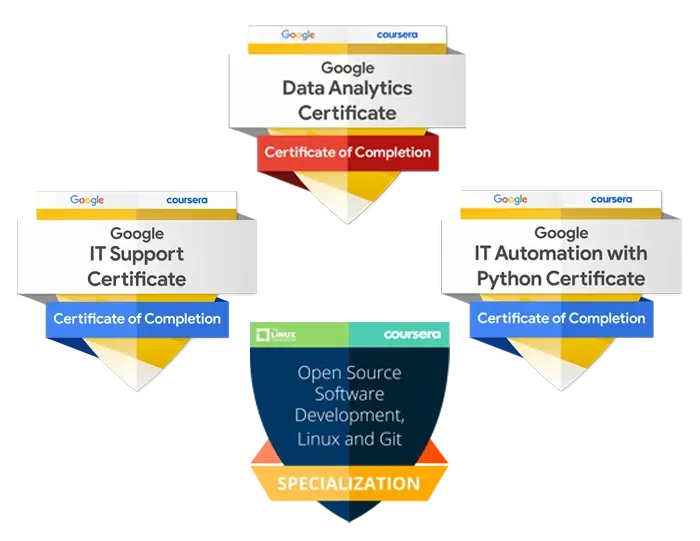
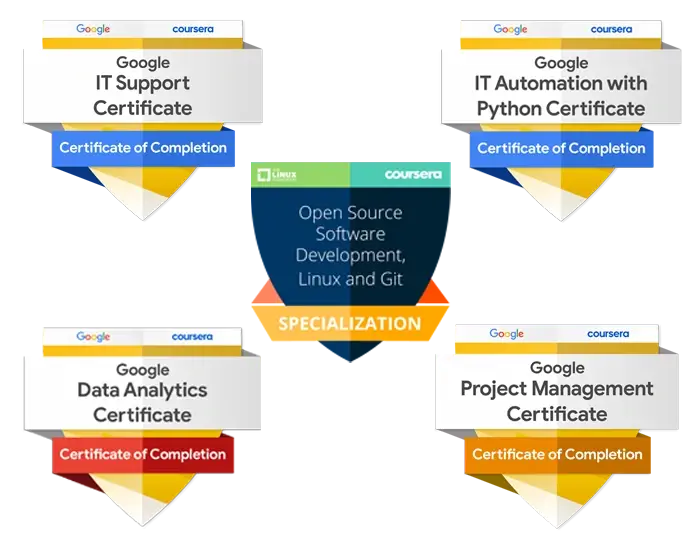
Update: certs, py-tess-ocr, badge

diff --git a/index.html b/index.html
@@ -271,7 +271,11 @@
                             </P>
                             <P>Coursera - The Linux Foundation | <span class="text-danger">2022</span></P>
                             <hr>
-                            <P class="sub-title">Google Data Analytics Professional Certificate - Specialization
+                            <P class="sub-title">Google Data Analytics - Specialization
+                            </P>
+                            <P>Coursera - Google | <span class="text-danger">2023</span></P>
+                            <hr>
+                            <P class="sub-title">Google Project Management - Specialization
                             </P>
                             <P>Coursera - Google | <span class="text-danger">2023</span></P>
                             <hr>
@@ -303,10 +307,10 @@
                             </P>
                             <P>KodeKloud | <span class="text-danger">2023</span></P>
                             <hr>
-                            <P class="sub-title">Neural Networks and Deep Learning
+                            <!-- <P class="sub-title">Neural Networks and Deep Learning
                             </P>
                             <P>Coursera - DeepLearning.AI | <span class="text-danger">2020</span></P>
-                            <hr>
+                            <hr> -->
                             <!-- <P class="sub-title">Introduction to Power Electronics
                             </P>
                             <P>Coursera - University of Colorado Boulder | <span class="text-danger">2020</span></P>
@@ -322,82 +326,87 @@
 
                                 <!-- Full-width images with numbers -->
                                 <div class="mySlides">
-                                    <div class="slide-numbertext">1 / 16</div>
+                                    <div class="slide-numbertext">1 / 17</div>
                                     <img src="assets/imgs/cert/badges.webp" style="width:75%"
                                         onclick="openImgCert(this)" alt="badges">
                                 </div>
                                 <div class="mySlides">
-                                    <div class="slide-numbertext">2 / 16</div>
+                                    <div class="slide-numbertext">2 / 17</div>
                                     <img src="assets/imgs/cert/GoogleITSupport.webp" style="width:75%;"
                                         onclick="openImgCert(this)" alt="Google IT Support">
                                 </div>
                                 <div class="mySlides">
-                                    <div class="slide-numbertext">3 / 16</div>
+                                    <div class="slide-numbertext">3 / 17</div>
                                     <img src="assets/imgs/cert/GoogleITAuto.webp" style="width:75%"
                                         onclick="openImgCert(this)" alt="Google IT Automation">
                                 </div>
                                 <div class="mySlides">
-                                    <div class="slide-numbertext">4 / 16</div>
+                                    <div class="slide-numbertext">4 / 17</div>
                                     <img src="assets/imgs/cert/Python3Programming.webp" style="width:75%"
                                         onclick="openImgCert(this)" alt="Python3 Programming">
                                 </div>
                                 <div class="mySlides">
-                                    <div class="slide-numbertext">5 / 16</div>
+                                    <div class="slide-numbertext">5 / 17</div>
                                     <img src="assets/imgs/cert/PythonForEverybody.webp" style="width:75%"
                                         onclick="openImgCert(this)" alt="Python for Everybody">
                                 </div>
                                 <div class="mySlides">
-                                    <div class="slide-numbertext">6 / 16</div>
+                                    <div class="slide-numbertext">6 / 17</div>
                                     <img src="assets/imgs/cert/Linux.webp" style="width:75%" onclick="openImgCert(this)"
                                         alt="Linux">
                                 </div>
                                 <div class="mySlides">
-                                    <div class="slide-numbertext">7 / 16</div>
+                                    <div class="slide-numbertext">7 / 17</div>
                                     <img src="assets/imgs/cert/GoogleDataAnalytics.webp" style="width:75%"
                                         onclick="openImgCert(this)" alt="Google Data Analytics">
                                 </div>
                                 <div class="mySlides">
-                                    <div class="slide-numbertext">8 / 16</div>
+                                    <div class="slide-numbertext">8 / 17</div>
+                                    <img src="assets/imgs/cert/GoogleProjectManagement.webp" style="width:75%"
+                                        onclick="openImgCert(this)" alt="Google Project Management">
+                                </div>
+                                <div class="mySlides">
+                                    <div class="slide-numbertext">9 / 17</div>
                                     <img id="image" src="assets/imgs/cert/ResponsiveWebDesign.webp" style="width:62%;"
                                         onclick="openImgCert(this)" alt="Responsive Web Design">
                                 </div>
                                 <div class="mySlides">
-                                    <div class="slide-numbertext">9 / 16</div>
+                                    <div class="slide-numbertext">10 / 17</div>
                                     <img id="image" src="assets/imgs/cert/JavascriptAlgorithms.webp" style="width:62%;"
                                         onclick="openImgCert(this)" alt="JavaScript Algorithms">
                                 </div>
                                 <div class="mySlides">
-                                    <div class="slide-numbertext">10 / 16</div>
+                                    <div class="slide-numbertext">11 / 17</div>
                                     <img id="image" src="assets/imgs/cert/FrontEndDevelopment.webp" style="width:62%;"
                                         onclick="openImgCert(this)" alt="Frontend Development">
                                 </div>
                                 <div class="mySlides">
-                                    <div class="slide-numbertext">11 / 16</div>
+                                    <div class="slide-numbertext">12 / 17</div>
                                     <img id="image" src="assets/imgs/cert/BackEndDevelopmentandAPIs.webp"
                                         style="width:75%;" onclick="openImgCert(this)" alt="Backend Development">
                                 </div>
                                 <div class="mySlides">
-                                    <div class="slide-numbertext">12 / 16</div>
+                                    <div class="slide-numbertext">13 / 17</div>
                                     <img id="image" src="assets/imgs/cert/GoLang.webp" style="width:80%;"
                                         onclick="openImgCert(this)" alt="Golang">
                                 </div>
                                 <div class="mySlides">
-                                    <div class="slide-numbertext">13 / 16</div>
+                                    <div class="slide-numbertext">14 / 17</div>
                                     <img id="image" src="assets/imgs/cert/Jenkins.webp" style="width:80%;"
                                         onclick="openImgCert(this)" alt="Jenkins">
                                 </div>
                                 <div class="mySlides">
-                                    <div class="slide-numbertext">14 / 16</div>
+                                    <div class="slide-numbertext">15 / 17</div>
                                     <img id="image" src="assets/imgs/cert/Ansible.webp" style="width:80%;"
                                         onclick="openImgCert(this)" alt="Ansible">
                                 </div>
                                 <div class="mySlides">
-                                    <div class="slide-numbertext">15 / 16</div>
+                                    <div class="slide-numbertext">16 / 17</div>
                                     <img id="image" src="assets/imgs/cert/NeuralNetworks.webp" style="width:75%;"
                                         onclick="openImgCert(this)" alt="Neural Networks">
                                 </div>
                                 <div class="mySlides">
-                                    <div class="slide-numbertext">16 / 16</div>
+                                    <div class="slide-numbertext">17 / 17</div>
                                     <img id="image" src="assets/imgs/cert/IntroductionToPower.webp" style="width:75%;"
                                         onclick="openImgCert(this)" alt="Introduction to Power Electical">
                                 </div>
@@ -425,6 +434,7 @@
                                 <span class="dot" onclick="currentSlide(14)"></span>
                                 <span class="dot" onclick="currentSlide(15)"></span>
                                 <span class="dot" onclick="currentSlide(16)"></span>
+                                <span class="dot" onclick="currentSlide(17)"></span>
                             </div>
                         </div>
                     </div>
@@ -911,6 +921,24 @@
                             </div>
                         </div>
                     </div>
+                    <div class="col-md-6 col-lg-4 glowing-card soft_dev">
+                        <div class="portfolio-item" onclick="openImgCert(this)">
+                            <img src="assets/imgs/portfolio/py-tess-ocr.webp" class="img-fluid"
+                                alt="<Py-Tess-OCR>^(){https://github.com/HasithaSuneth/Py-Tess-OCR}">
+                            <div class="content-holder">
+                                <div class="text-holder">
+                                    <h6 class="title">Py-Tess-OCR</h6>
+                                    <p class="subtitle">Py-Tess-OCR is a cutting-edge offline optical character
+                                        recognition (OCR) software, designed to empower users with seamless text
+                                        extraction capabilities. Developed on the powerful Tesseract OCR engine and
+                                        integrated with Python and Tkinter module.
+                                    </p>
+                                    <p class="subtitle_tag">#Python&ensp;#Tesseract&ensp;#Tkinter
+                                    </p>
+                                </div>
+                            </div>
+                        </div>
+                    </div>
                 </div>
             </div>
         </div>
@@ -964,12 +992,13 @@
 
                 <div class="blog-card">
                     <div class="img-holder">
-                        <a href="#">
+                        <a href="https://hasithasuneth.com/assets/imgs/portfolio/videos/traffic_solution.mp4">
                             <img src="assets/imgs/blog/traffic_solution_web.webp" alt="traffic solution project">
                         </a>
                     </div>
                     <div class="content-holder">
-                        <a href="#" class="blog_titles">
+                        <a href="https://hasithasuneth.com/assets/imgs/portfolio/videos/traffic_solution.mp4"
+                            class="blog_titles">
                             <h6 class="title">SMART AUTOMATED ROAD TRAFFIC LIGHT CONTROL
                                 SYSTEM USING IMAGE PROCESSING</h6>
                         </a>
@@ -1003,7 +1032,8 @@
                             <i class="ti-tag"></i>
                             <i>#Python&ensp;#YOLOv3&ensp;#OpenCV&ensp;#Darknet&ensp;#SUMO</i>
                         </p>
-                        <a href="#" class="read-more">Read more <i class="ti-angle-double-right"></i></a>
+                        <a href="https://hasithasuneth.com/assets/imgs/portfolio/videos/traffic_solution.mp4"
+                            class="read-more">Read more <i class="ti-angle-double-right"></i></a>
                     </div>
                 </div><!-- end of blog wrapper -->
 
